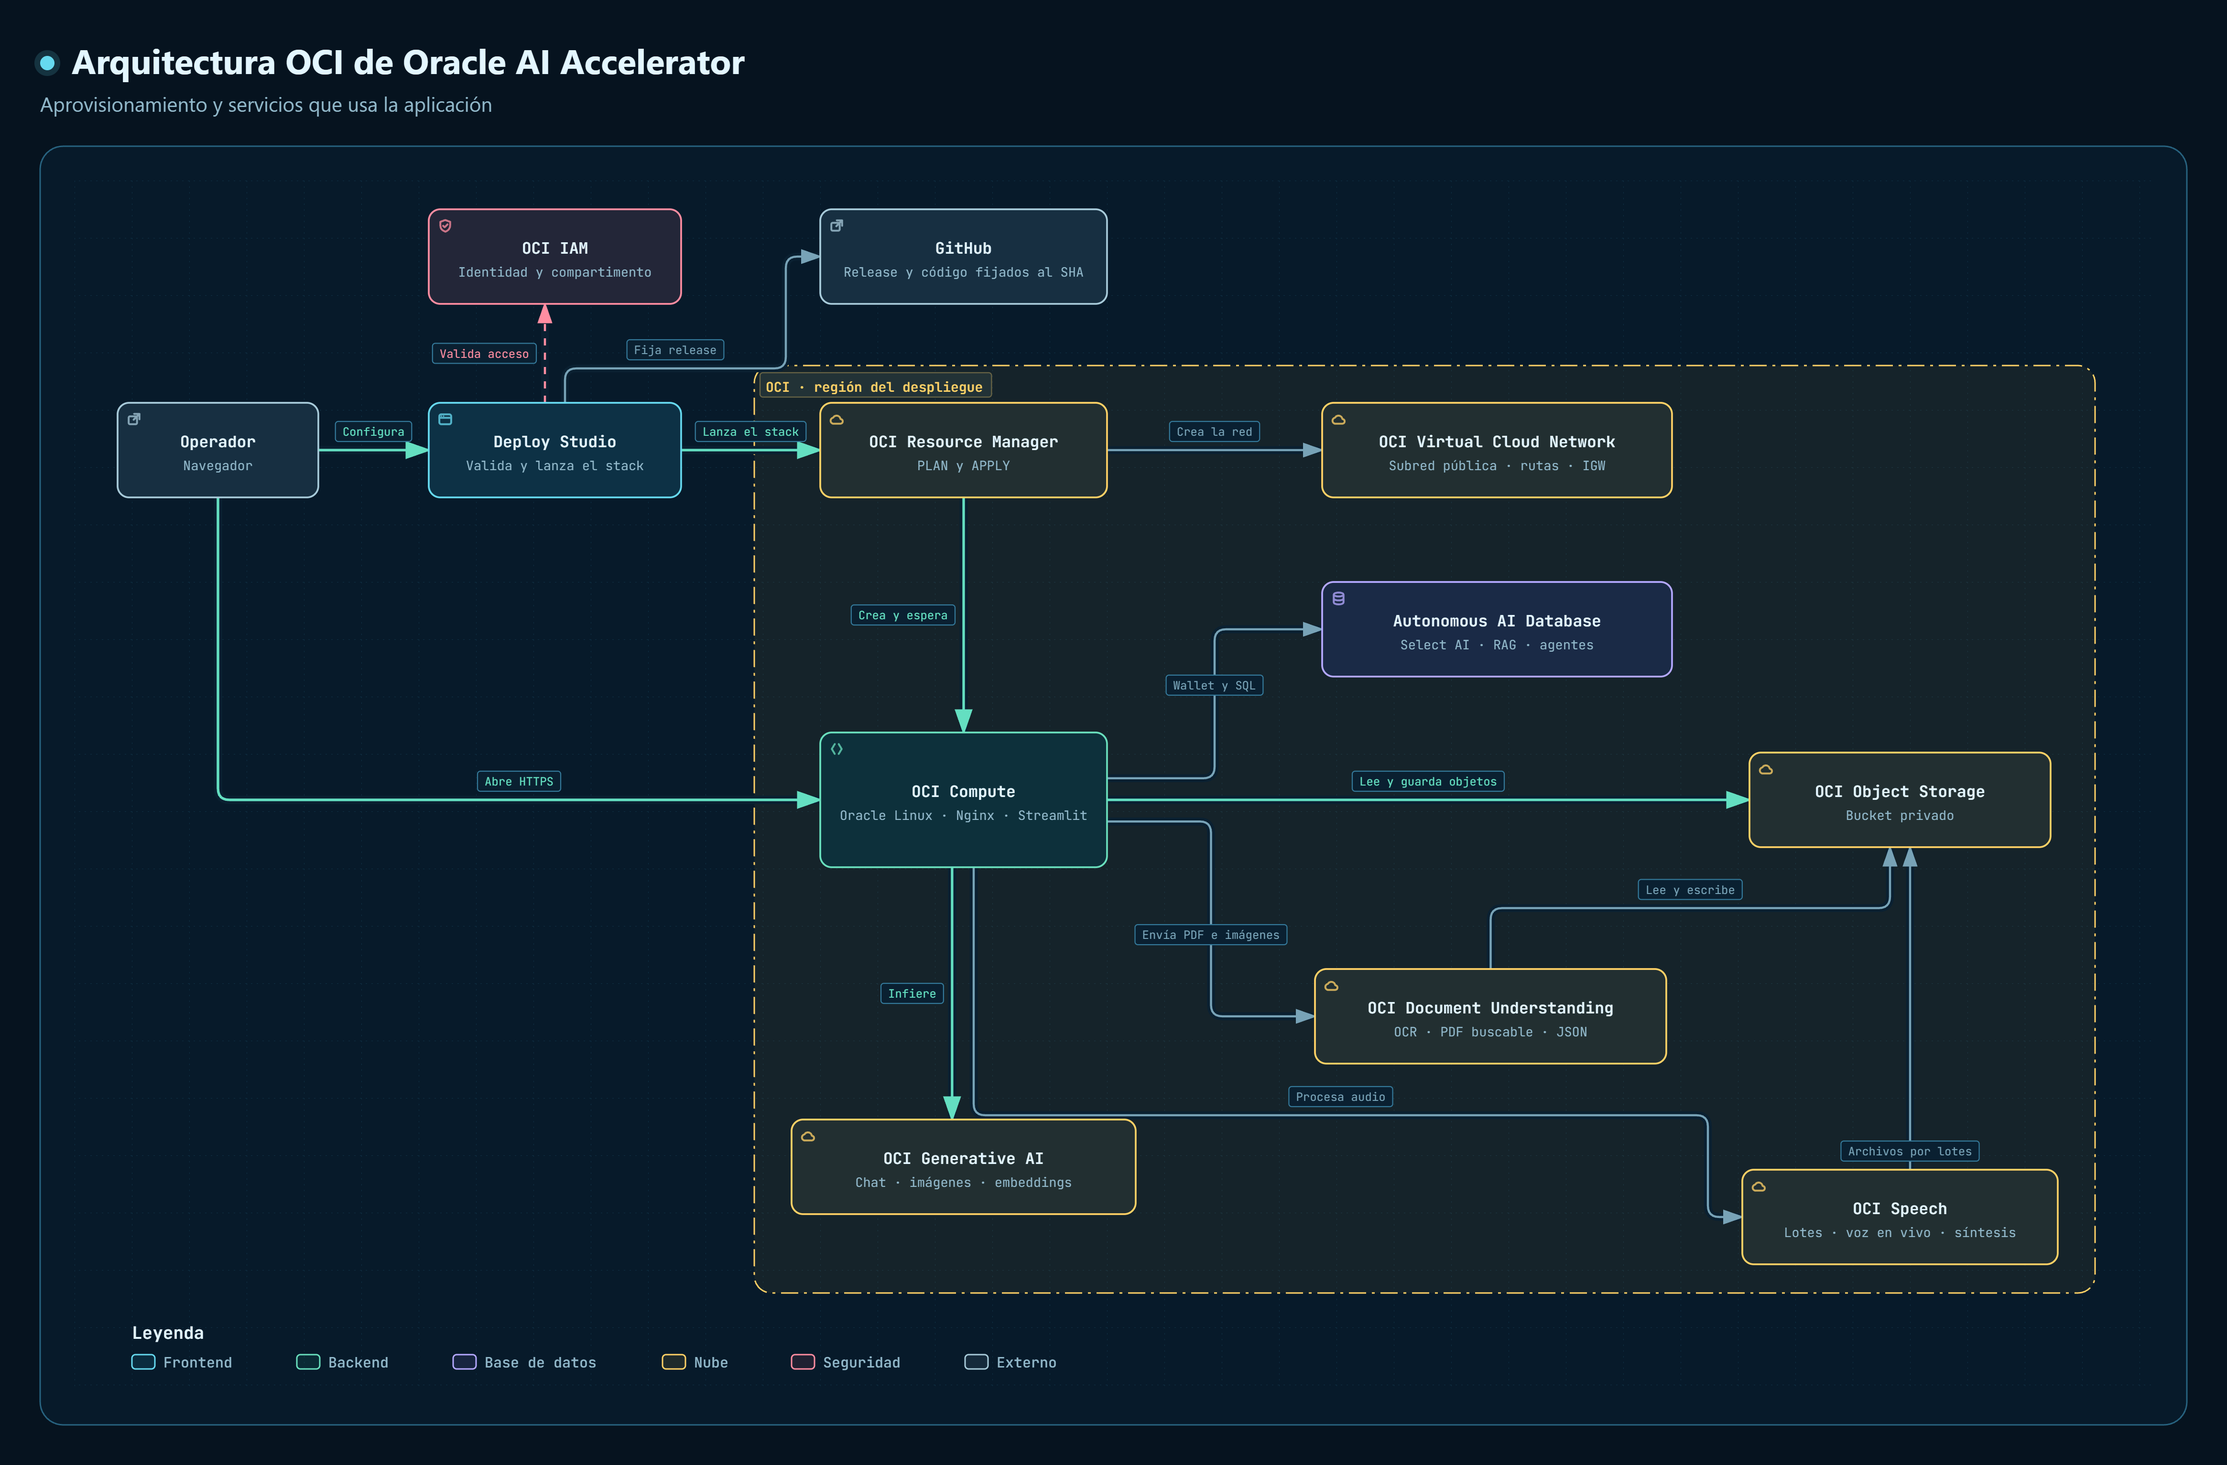
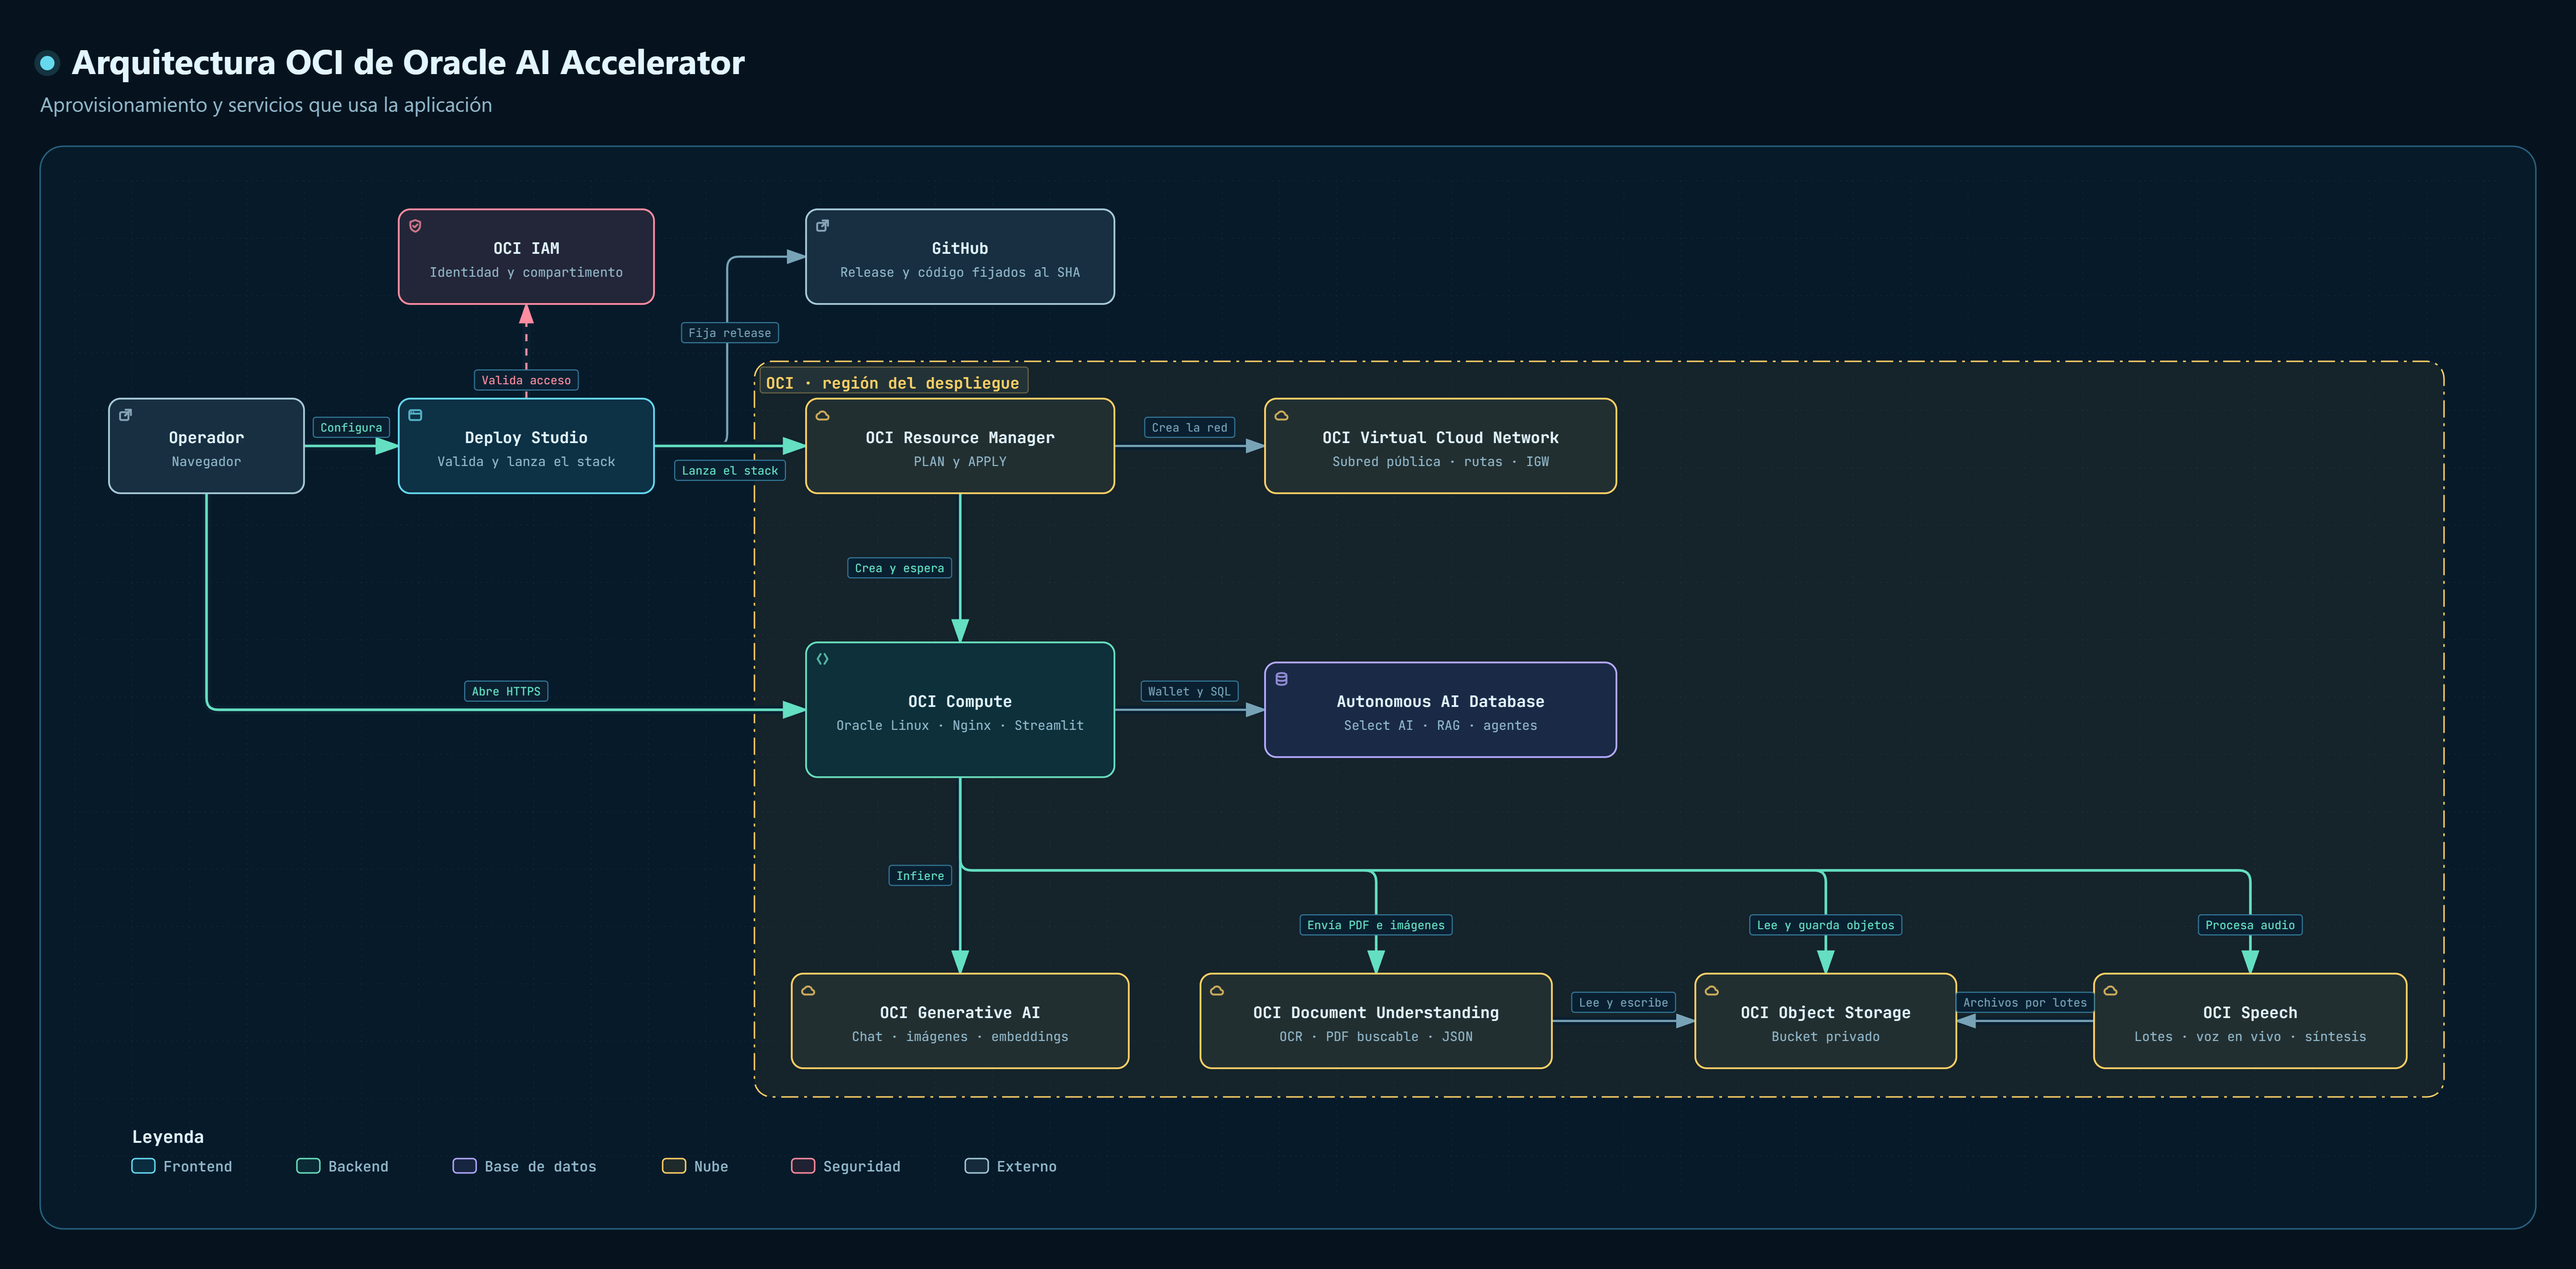
Refine the Accelerator mascot and OCI diagram

diff --git a/README.md b/README.md
@@ -1,5 +1,5 @@
 <p align="center">
-  <img src="docs/assets/oracle-ai-accelerator-cover.png" alt="Ícono de Oracle AI Accelerator con un globo de conversación blanco sobre fondo rojo" width="176">
+  <img src="docs/assets/oracle-ai-accelerator-cover.png" alt="Mascota roja de Oracle AI Accelerator con forma de globo de conversación y un ojo guiñado" width="176">
 </p>
 
 <h3 align="center">Oracle AI Accelerator</h3>
